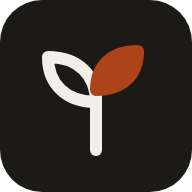
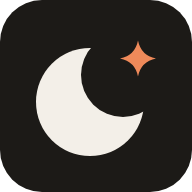
Rename to MoonPaper; rename chats in the header; edit persona from a chat
- Click the chat name in the header to rename it in place (Enter or
  clicking away saves, Esc cancels)
- A pencil beside "Speaking as" edits the persona's name and description
  without leaving the chat; also in the search box as "Edit my persona"
- New name MoonPaper with a crescent moon icon, new app icons and link
  preview image. Stored data formats keep their old identifiers so every
  existing backup, lorebook and card still imports
- What's new lists the changes

Claude-Session: https://claude.ai/code/session_019r3HTPhnPdzFoNGxXs3WNw

Changed region(s): [[0.1875, 0.2188, 0.8125, 0.8125]]

diff --git a/public/js/views/chat.js b/public/js/views/chat.js
@@ -212,7 +212,7 @@ export async function render(main, [botId, chatId, jumpTo]) {
         <div class="chat-topbar">
           <button class="icon-btn only-mobile" type="button" id="open-sidebar" aria-label="Show chats" aria-controls="sidebar" aria-expanded="false">${icon("menu")}</button>
           ${botAvatar(bot, 36, " only-mobile")}
-          <div class="title"><span id="chat-title"></span> <span class="content-tag" id="content-tag" hidden></span><small id="chat-sub"></small></div>
+          <div class="title"><span class="title-line"><button class="title-edit" type="button" id="chat-title" title="Rename this chat"></button><input type="text" class="title-input" id="title-input" aria-label="Chat name" maxlength="80" autocomplete="off" hidden><span class="content-tag" id="content-tag" hidden></span></span><small id="chat-sub"></small></div>
           ${bondOn ? `<button class="bond" type="button" id="bond" title="Bond with ${esc(bot.name)} · set where it starts">
             <span class="bond-label" id="bond-label"></span>
             <span class="bond-bar"><span class="bond-fill" id="bond-fill"></span></span>
@@ -268,9 +268,12 @@ export async function render(main, [botId, chatId, jumpTo]) {
               <button class="send-btn" type="submit" id="send" aria-label="Send message">${icon("send")}</button>
             </div>
             <div class="composer-foot">
+              <span class="persona-group">
               <label class="persona-pick"><span>Speaking as</span>
                 <select id="persona">${allPersonas.map((p) => `<option value="${p.id}">${esc(p.name || "Unnamed")}</option>`).join("")}</select>
               </label>
+              <button class="icon-btn persona-edit" type="button" id="persona-edit" aria-label="Edit this persona" title="Edit this persona" ${allPersonas.length ? "" : "hidden"}>${icon("edit")}</button>
+              </span>
               <label class="persona-pick" id="speaker-pick" hidden><span>Next to reply</span>
                 <select id="speaker"></select>
               </label>
@@ -389,7 +392,8 @@ export async function render(main, [botId, chatId, jumpTo]) {
   }
 
   function paintHeader() {
-    $("#chat-title", main).textContent = chat.title;
+    $("#chat-title", main).innerHTML = `<span>${esc(chat.title)}</span>${icon("edit")}`;
+    $("#chat-title", main).setAttribute("aria-label", `Chat name: ${chat.title}. Rename`);
     const p = persona();
     $("#chat-sub", main).textContent = `with ${everyone().map((b) => b.name).join(", ")}${p ? ` · as ${p.name}` : ""}`;
     paintModelChip();
@@ -399,7 +403,7 @@ export async function render(main, [botId, chatId, jumpTo]) {
     tag.textContent = level === "explicit" ? "18+ explicit" : "18+";
     tag.title = level === "explicit" ? "Explicit content is on for this chat (Settings)" : "Mature content is on for this chat (Settings)";
     $("#persona", main).value = p?.id ?? "";
-    document.title = `${bot.name} · Shiru’s Garden`;
+    document.title = `${bot.name} · MoonPaper`;
     // Speaker picker only matters when more than one bot can answer.
     const pick = $("#speaker-pick", main);
     const select = $("#speaker", main);
@@ -1935,6 +1939,69 @@ export async function render(main, [botId, chatId, jumpTo]) {
     await persist(); paintHeader(); paintLog({ scroll: false });
   });
 
+  // Rename in place: click the name, type, Enter saves, Esc cancels.
+  const titleBtn = $("#chat-title", main);
+  const titleInput = $("#title-input", main);
+  function startRename() {
+    if (!titleInput.hidden) return;
+    titleInput.value = chat.title;
+    titleBtn.hidden = true;
+    titleInput.hidden = false;
+    titleInput.focus(); titleInput.select();
+  }
+  async function endRename(save) {
+    if (titleInput.hidden) return;
+    const title = titleInput.value.trim();
+    titleInput.hidden = true;
+    titleBtn.hidden = false;
+    if (save && title && title !== chat.title) {
+      chat.title = title;
+      await persist(); paintHeader();
+      toast(`Renamed to “${title}”.`);
+    }
+    titleBtn.focus();
+  }
+  titleBtn.addEventListener("click", startRename);
+  titleInput.addEventListener("keydown", (e) => {
+    if (e.key === "Enter" && !e.isComposing) { e.preventDefault(); endRename(true); }
+    if (e.key === "Escape") { e.preventDefault(); e.stopPropagation(); endRename(false); }
+  });
+  titleInput.addEventListener("blur", () => endRename(true));
+
+  // Edit who you are without leaving the chat. The persona is shared, so
+  // the dialog says which other chats it changes.
+  function editPersona() {
+    const p = persona();
+    if (!p) return;
+    const dlg = openDialog(`
+      <form method="dialog" class="dialog-body">
+        <h2>Edit persona</h2>
+        <div class="field"><label for="pe-name">Name</label>
+          <input type="text" id="pe-name" value="${esc(p.name)}" maxlength="60" autocomplete="off"></div>
+        <div class="field"><label for="pe-desc">Description</label>
+          <textarea id="pe-desc" class="tall" placeholder="Appearance, personality, background, how others see you…">${esc(p.description ?? "")}</textarea>
+          <p class="hint">Bots read this to know who you are. It changes ${esc(p.name || "this persona")} in every chat that uses it. Picture and more on the <a href="#/personas">Personas</a> page.</p></div>
+        <div class="dialog-actions">
+          <button class="btn btn-ghost" value="cancel" formnovalidate>Cancel</button>
+          <button class="btn btn-primary" value="ok">Save</button>
+        </div>
+      </form>`, {
+      onClose: async (v) => {
+        if (v !== "ok") return;
+        p.name = $("#pe-name", dlg).value.trim() || p.name;
+        p.description = $("#pe-desc", dlg).value.trim();
+        await personas.save(p);
+        const opt = $(`#persona option[value="${CSS.escape(p.id)}"]`, main);
+        if (opt) opt.textContent = p.name || "Unnamed";
+        paintHeader(); paintLog({ scroll: false });
+        toast(`${p.name} saved. The next reply uses the new description.`);
+      },
+    });
+    $("#pe-desc", dlg).focus();
+    $("a", dlg).addEventListener("click", () => dlg.close("cancel"));
+  }
+  $("#persona-edit", main).addEventListener("click", editPersona);
+
   if (bondOn) $("#bond", main).addEventListener("click", openBonds);
   $("#memory", main).addEventListener("click", openMemory);
   $("#cast", main).addEventListener("click", openCast);
@@ -2094,6 +2161,7 @@ export async function render(main, [botId, chatId, jumpTo]) {
       c("See the prompt", previewPrompt, "debug context"),
       c("Usage in this chat", openChatUsage, "tokens cost"),
       c("Rename chat", rename, "title"),
+      c("Edit my persona", editPersona, "who i am description me user"),
       c("Export chat", exportChat, "download save"),
       c("Delete chat", deleteChat, "remove"),
     ];

diff --git a/public/style.css b/public/style.css
@@ -1,4 +1,4 @@
-/* Shiru's Garden design system.
+/* MoonPaper design system.
    - Spacing: 4px base, used in steps of 4 and 8 only (--s1 … --s9).
    - Type: Fraunces (soft, rounded serifs) for headings, Nunito (rounded)
      for everything else, JetBrains Mono for code. Sizes come
@@ -533,6 +533,19 @@ body.in-chat .site-footer { display: none; }
 .chat-topbar .avatar-link { align-self: center; }
 .chat-topbar .title { flex: 1; min-width: 0; font-weight: 600; overflow: hidden; text-overflow: ellipsis; white-space: nowrap; }
 .chat-topbar .title small { display: block; font-weight: 400; color: var(--muted); overflow: hidden; text-overflow: ellipsis; }
+/* The chat name renames in place. The pencil shows on hover and focus. */
+.title-line { display: flex; align-items: center; gap: var(--s2); min-width: 0; }
+.title-edit {
+  flex: 0 1 auto; display: inline-flex; align-items: center; gap: var(--s1); min-width: 0; height: 28px;
+  margin-left: calc(-1 * var(--s2)); padding: 0 var(--s2); border: 0; border-radius: var(--r-sm);
+  background: none; color: inherit; font: inherit; cursor: text;
+}
+.title-edit > span { overflow: hidden; text-overflow: ellipsis; white-space: nowrap; }
+.title-edit svg { flex: none; width: 14px; height: 14px; color: var(--muted); opacity: 0; transition: opacity var(--dur) var(--ease); }
+.title-edit:hover { background: var(--fill); }
+.title-edit:hover svg, .title-edit:focus-visible svg { opacity: 1; }
+@media (hover: none) { .title-edit svg { opacity: 1; } }
+.chat-topbar .title-input { height: 28px; width: min(320px, 100%); margin-left: calc(-1 * var(--s2)); padding: 0 var(--s2); font-weight: 600; border-radius: var(--r-sm); }
 .only-mobile { display: none; }
 
 .chat-log { flex: 1; overflow-y: auto; padding: var(--s6) var(--s5) var(--s4); }
@@ -593,6 +606,9 @@ body.in-chat .site-footer { display: none; }
 .composer-foot select { width: auto; height: 32px; font-size: var(--t-sm); padding-left: var(--s3); padding-right: var(--s6); background-position: calc(100% - 12px) center; }
 .persona-pick { display: inline-flex; align-items: center; gap: var(--s2); }
 .persona-pick > span { white-space: nowrap; }
+.persona-group { display: inline-flex; align-items: center; gap: var(--s1); }
+.composer-foot .persona-edit { width: 32px; height: 32px; }
+.composer-foot .persona-edit svg { width: 16px; height: 16px; }
 /* Write my reply: sits beside Send, quieter than it. */
 .composer-tool { width: 40px; height: 40px; }
 .composer-tool.is-active { background: var(--fill); color: var(--ink); }
@@ -1104,3 +1120,4 @@ dialog.palette-dialog { width: min(600px, calc(100vw - 32px)); margin-top: 12vh;
 .dice-chip svg { width: 14px; height: 14px; }
 #dice-roll svg { width: 16px; height: 16px; margin-right: var(--s2); }
 @media (prefers-reduced-motion: reduce) { .flash-card { animation: none; box-shadow: 0 0 0 2px var(--accent); } }
+.news-earlier { font-family: var(--font); font-size: var(--t-xs); font-weight: 600; letter-spacing: .04em; text-transform: uppercase; color: var(--muted); }

diff --git a/public/index.html b/public/index.html
@@ -3,26 +3,26 @@
 <head>
 <meta charset="utf-8">
 <meta name="viewport" content="width=device-width, initial-scale=1, viewport-fit=cover">
-<title>Shiru's Garden</title>
+<title>MoonPaper</title>
 <meta name="description" content="Write your own characters and talk to them through any OpenAI-compatible API or proxy.">
 <meta name="theme-color" content="#f3efe8" media="(prefers-color-scheme: light)">
 <meta name="theme-color" content="#161412" media="(prefers-color-scheme: dark)">
 <meta property="og:type" content="website">
 <meta property="og:url" content="https://shiru-bot-garden.vercel.app/">
 <link rel="canonical" href="https://shiru-bot-garden.vercel.app/">
-<meta property="og:site_name" content="Shiru's Garden">
-<meta property="og:title" content="Shiru's Garden">
+<meta property="og:site_name" content="MoonPaper">
+<meta property="og:title" content="MoonPaper">
 <meta property="og:description" content="Write your own characters and talk to them through any OpenAI-compatible API or proxy. Everything stays in your browser.">
 <meta property="og:image" content="https://shiru-bot-garden.vercel.app/og.png">
 <meta property="og:image:width" content="1200">
 <meta property="og:image:height" content="630">
-<meta property="og:image:alt" content="Shiru's Garden: your characters, your API, your browser.">
+<meta property="og:image:alt" content="MoonPaper: your characters, your API, your browser.">
 <meta name="twitter:card" content="summary_large_image">
 <link rel="icon" href="favicon.svg" type="image/svg+xml">
 <link rel="apple-touch-icon" href="apple-touch-icon.png">
 <link rel="manifest" href="manifest.webmanifest">
 <meta name="apple-mobile-web-app-capable" content="yes">
-<meta name="apple-mobile-web-app-title" content="Shiru's Garden">
+<meta name="apple-mobile-web-app-title" content="MoonPaper">
 <script src="js/theme-init.js"></script>
 <link rel="preconnect" href="https://fonts.googleapis.com">
 <link rel="preconnect" href="https://fonts.gstatic.com" crossorigin>
@@ -44,7 +44,7 @@
         <svg viewBox="0 0 24 24" fill="none" stroke="currentColor" stroke-width="1.8" stroke-linecap="round" stroke-linejoin="round" aria-hidden="true"><path d="M4 11 12 4l8 7M6 9.5V20h4.5v-5h3v5H18V9.5"/></svg>
       </a>
     </div>
-    <a class="brand" href="#/">Shiru’s Garden</a>
+    <a class="brand" href="#/">MoonPaper</a>
     <nav class="main-nav" aria-label="Main">
       <ul>
         <li><a href="#/" data-nav="home">Bots</a></li>

diff --git a/public/js/views/settings.js b/public/js/views/settings.js
@@ -73,7 +73,7 @@ export async function render(main) {
 
       <div class="card" id="set-install">
         <h2 class="card-title">Install as an app</h2>
-        <p class="lead">Put Shiru's Garden on your home screen or in your app list. It opens full screen, loads instantly,
+        <p class="lead">Put MoonPaper on your home screen or in your app list. It opens full screen, loads instantly,
           and your bots and chats open even without internet. Replies still need your connection.</p>
         <div id="install-box" aria-live="polite"></div>
       </div>
@@ -353,7 +353,7 @@ export async function render(main) {
     const box = $("#install-box", main);
     const state = installState();
     box.innerHTML = {
-      installed: `<p class="note">${icon("check")}<span>Installed. You are using Shiru's Garden as an app.</span></p>`,
+      installed: `<p class="note">${icon("check")}<span>Installed. You are using MoonPaper as an app.</span></p>`,
       ready: `<button class="btn btn-primary" type="button" id="install">Install app</button>`,
       ios: `<ol class="steps-list"><li>Tap the <strong>Share</strong> button in Safari's toolbar.</li>
         <li>Choose <strong>Add to Home Screen</strong>.</li><li>Tap <strong>Add</strong>.</li></ol>`,
@@ -363,7 +363,7 @@ export async function render(main) {
     $("#install", box)?.addEventListener("click", async (e) => {
       e.currentTarget.classList.add("is-loading");
       const ok = await promptInstall();
-      toast(ok ? "Installing. Look for Shiru's Garden on your home screen or app list." : "Not installed. You can install any time from here.", ok ? "ok" : "info");
+      toast(ok ? "Installing. Look for MoonPaper on your home screen or app list." : "Not installed. You can install any time from here.", ok ? "ok" : "info");
       paintInstall();
     });
   }
@@ -407,7 +407,7 @@ export async function render(main) {
 
   $("#backup", main).addEventListener("click", async () => {
     const data = await exportAll({ includeKeys: $("#with-keys", main).checked });
-    download(`shirus-garden-backup-${new Date().toISOString().slice(0, 10)}.json`, data);
+    download(`moonpaper-backup-${new Date().toISOString().slice(0, 10)}.json`, data);
     await markBackedUp();
     paintLastBackup();
   $("#show-tour", main).addEventListener("click", async () => (await import("../help.js")).showTour());

diff --git a/public/js/help.js b/public/js/help.js
@@ -4,10 +4,18 @@
 import { getMeta, setMeta } from "./store.js";
 import { $, esc, icon, openDialog } from "./ui.js";
 
-export const APP_VERSION = "2026.09.23";
+export const APP_VERSION = "2026.09.23.2";
 
 // Newest first. Each item says what it is and where it lives.
 export const NEWS = [
+  {
+    version: "2026.09.23.2",
+    items: [
+      ["A new name: MoonPaper", "Same site, same data. Only the name and icon changed."],
+      ["Rename in the header", "Click a chat's name at the top to rename it. Enter saves, Esc cancels."],
+      ["Edit your persona in a chat", "The pencil beside \"Speaking as\" edits who you are without leaving the chat."],
+    ],
+  },
   {
     version: "2026.09.23",
     items: [
@@ -22,7 +30,7 @@ export const NEWS = [
 ];
 
 const STEPS = [
-  { icon: "book", title: "Welcome to Shiru's Garden",
+  { icon: "book", title: "Welcome to MoonPaper",
     body: "Write your own characters and talk to them through your own AI connection. Bots, chats and keys stay in this browser; nothing is uploaded." },
   { icon: "info", title: "1. Connect your AI",
     body: "Add your API key or proxy on the Connection page. The dot at the top turns green when replies are working.",
@@ -75,7 +83,7 @@ export function showTour() {
 export function showWhatsNew() {
   openDialog(`<div class="dialog-body">
     <h2>What's new</h2>
-    ${NEWS.map((n) => `<ul class="news-list">${n.items.map(([t, d]) => `<li><strong>${esc(t)}</strong><span>${esc(d)}</span></li>`).join("")}</ul>`).join("")}
+    ${NEWS.map((n, i) => `${i === 1 ? `<h3 class="news-earlier">Earlier</h3>` : ""}<ul class="news-list">${n.items.map(([t, d]) => `<li><strong>${esc(t)}</strong><span>${esc(d)}</span></li>`).join("")}</ul>`).join("")}
     <form method="dialog" class="dialog-actions"><button class="btn btn-primary">Close</button></form>
   </div>`, { onClose: () => setMeta({ whatsNewSeen: APP_VERSION }) });
 }

diff --git a/public/js/views/connection.js b/public/js/views/connection.js
@@ -110,7 +110,7 @@ export async function render(main) {
           <div class="form-grid">
             <div class="field">
               <label for="c-headers">Headers sent with every request</label>
-              <textarea id="c-headers" class="mono" placeholder="HTTP-Referer: https://my-site.example&#10;X-Title: Shiru&#39;s Garden" spellcheck="false">${esc(conn.headers)}</textarea>
+              <textarea id="c-headers" class="mono" placeholder="HTTP-Referer: https://my-site.example&#10;X-Title: MoonPaper" spellcheck="false">${esc(conn.headers)}</textarea>
               <p class="hint">One <code>Name: value</code> per line, or a JSON object. Some proxies want a password header here.</p>
               <p class="error-text" id="c-headers-err" hidden></p>
             </div>

diff --git a/public/js/views/home.js b/public/js/views/home.js
@@ -170,7 +170,7 @@ export async function render(main) {
 
   $("#backup-now", main)?.addEventListener("click", async (e) => {
     const card = e.currentTarget.closest("section");
-    download(`shirus-garden-backup-${new Date().toISOString().slice(0, 10)}.json`, await exportAll({ includeKeys: false }));
+    download(`moonpaper-backup-${new Date().toISOString().slice(0, 10)}.json`, await exportAll({ includeKeys: false }));
     await markBackedUp();
     card.remove();
     toast("Backup downloaded. API keys were left out; keep the file somewhere safe.", "ok");

diff --git a/public/sw.js b/public/sw.js
@@ -2,7 +2,7 @@
 // everything except talking to the model. Network first, so an update is
 // picked up on the next visit; the cache is only the fallback when offline.
 // API calls and other sites are never cached.
-const CACHE = "shirus-garden-v2";
+const CACHE = "moonpaper-v1";
 const SHELL = [
   "/", "/index.html", "/style.css", "/favicon.svg", "/manifest.webmanifest", "/icon-192.png", "/library.json",
   "/js/app.js", "/js/theme-init.js", "/js/store.js", "/js/db.js", "/js/ui.js", "/js/api.js", "/js/prompt.js",

diff --git a/public/js/store.js b/public/js/store.js
@@ -404,6 +404,7 @@ export async function seed() {
 
 // ---------- Backup ----------
 
+// Kept from the site's first name (Shiru's Garden) so every backup, old or new, uses one format.
 export const BACKUP_FORMAT = "shirus-garden-backup";
 // The old name is still accepted, so earlier backups restore.
 const BACKUP_FORMATS = [BACKUP_FORMAT, "lore-archive-backup"];

diff --git a/dev.js b/dev.js
@@ -58,5 +58,5 @@ http.createServer(async (req, res) => {
   }
 }).listen(PORT, "127.0.0.1", () => {
   // 127.0.0.1 = only your own computer can open the site.
-  console.log(`Shiru’s Garden running at http://localhost:${PORT}`);
+  console.log(`MoonPaper running at http://localhost:${PORT}`);
 });

diff --git a/public/js/app.js b/public/js/app.js
@@ -52,7 +52,7 @@ async function route() {
   }
   currentHash = location.hash;
   trackDepth();
-  document.title = "Shiru’s Garden";
+  document.title = "MoonPaper";
   current?.cleanup?.();
   current = null;
 

diff --git a/README.md b/README.md
@@ -1,4 +1,4 @@
-# Shiru’s Garden
+# MoonPaper
 
 A roleplay chat site for your own characters. Write bots, give them pictures, set up a
 world of lore, choose who you are, and talk to them through any OpenAI-compatible API
@@ -75,6 +75,10 @@ server-side storage of your key.
 - **Persona per bot**: each bot remembers who you last were with it, and new chats with it
   start as that persona.
 - **Favourites**: star a bot on the home page to keep it at the front of the list.
+- **Rename in place**: click a chat's name in the chat header to rename it. The ⋯ menu's
+  Rename still offers a suggested title.
+- **Edit your persona from a chat**: the pencil beside "Speaking as" edits the persona's
+  name and description. The change applies to every chat that uses that persona.
 - **Bonds in group scenes**: every character in a group chat has a bond of their own.
   The bond meter opens all of them, with a chart of how each moved over the chat.
 - **Rewind**: from a message's ⋯ menu, delete every message after it and continue from
